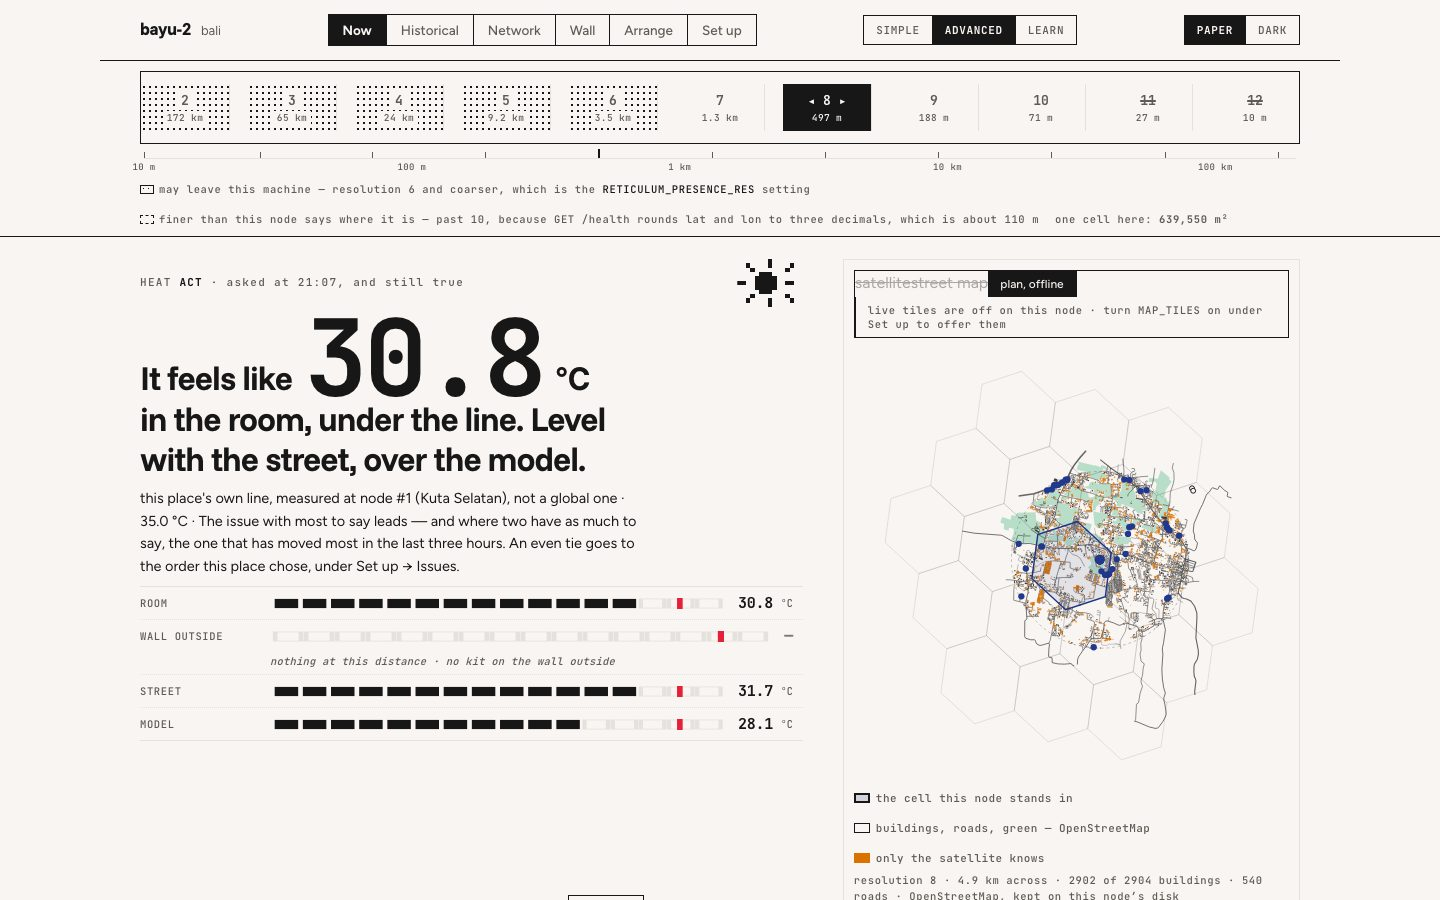
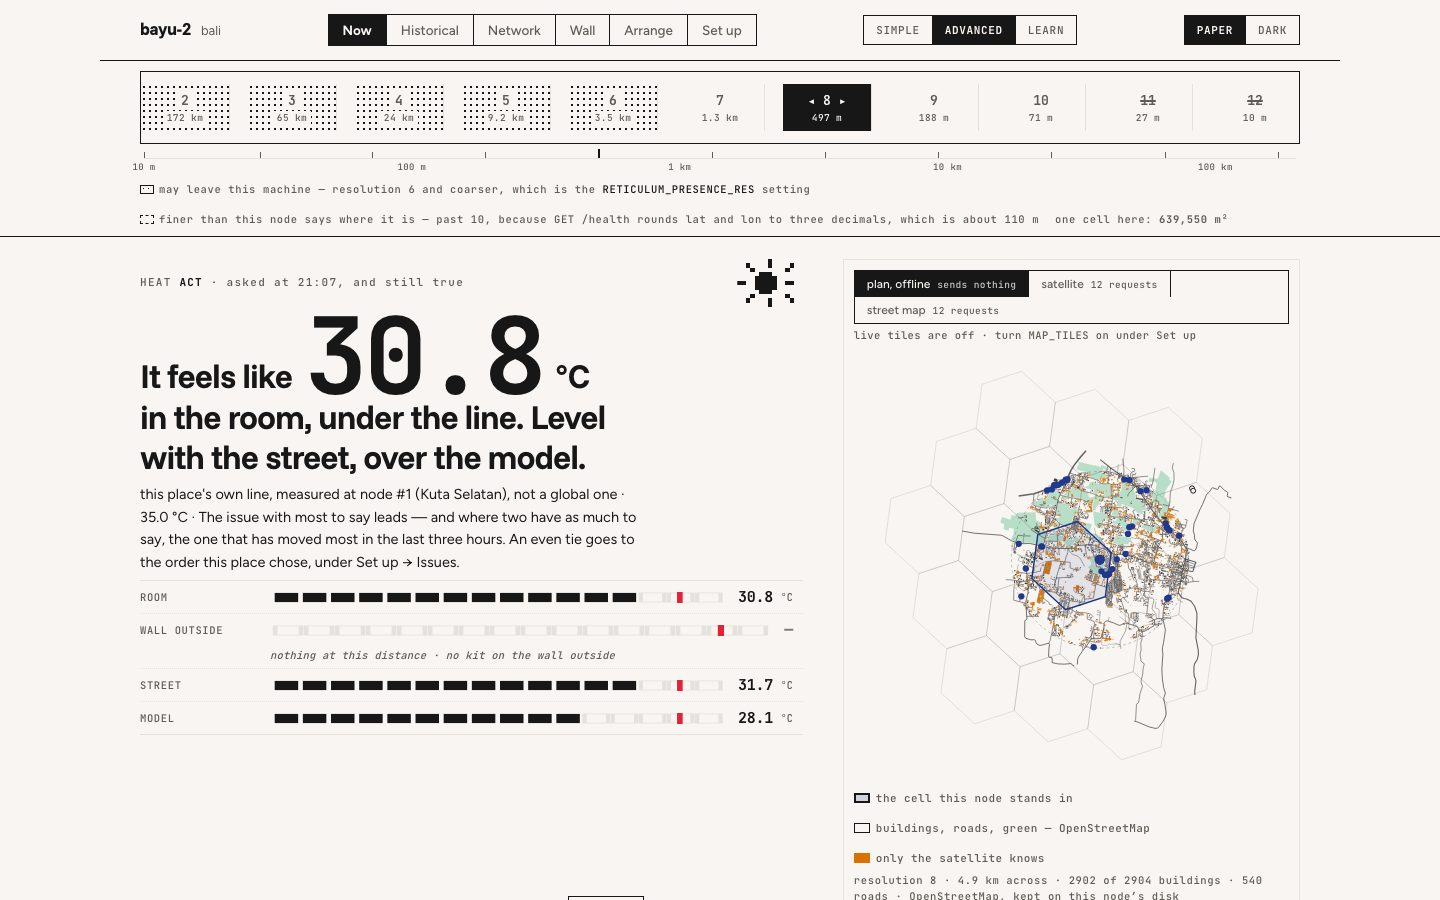
dashboard: the ground panel says what each base costs before you press it
Prompt 2, commit 4 of 4 — and prompt 2 is done.

THE OFFLINE PLAN LEADS. It was third of three, after the two that leave the house, so the first
thing offered had a cost and the one that costs nothing was the afterthought. It is the default from
resolution 9 in and the only base that sends no request anywhere.

THE PRICE IS IN THE TAB. The request count was at the foot of the panel and only ever described the
base already showing — so the one number a reader needs in order to choose was the one they could
only see after choosing. Each tile is this household's kilometre named to a tile server, so it is a
price and it belongs on the thing being bought: satellite 12 requests, street map 12 requests, plan
sends nothing.

AND THE OVERLAP IS GONE. A disabled base is drawn rather than hidden — hiding them made a keeper who
had seen satellite and street in the prototype think production had lost them — but it was styled
for colour only, with no padding and no border, so the two of them ran together as "satellitestreet
map" inside the strip's own box. Visible in every shot taken of this page today. They are cells of
the strip now; only their state differs.

WHAT THE HEIGHT TAUGHT ME, and prompt 3 will need it: the lead's height IS the map column's height.
The ground panel sits in area `g`, which spans all six rows of the lead, so grid distributes its
height across them and the left column's own spacing is not the lever. When the as-of went under the
[…]

diff --git a/app/static/dashboard.js b/app/static/dashboard.js
@@ -1430,14 +1430,18 @@ const SIZE = 600;                   // logical px of the lead's square; the wall
 const FILL = 0.9;                   // the cells may take this much of the square
 const EQUATOR_M = 40075016.686;     // Web Mercator's circumference, metres
 
+/* THE OFFLINE PLAN LEADS. It was third of three, after the two that leave the house — so the first
+ * thing offered was the one with a cost, and the one that costs nothing was the afterthought. The
+ * node's own map is the default from resolution 9 in and it is the only base that sends no request
+ * anywhere; it goes first, and the other two say what they would cost before they are pressed. */
 const BASES = {
+  plan: { name: 'plan, offline', host: null, credit: 'OpenStreetMap, kept on this node\u2019s disk' },
   sat: { name: 'satellite', host: 'tiles.maps.eox.at', maxZ: 18,
     url: (z, x, y) => `https://tiles.maps.eox.at/wmts/1.0.0/s2cloudless-2020_3857/default/g/${z}/${y}/${x}.jpg`,
     credit: 'Sentinel-2 cloudless by EOX IT Services GmbH (Contains modified Copernicus Sentinel data 2020)' },
   osm: { name: 'street map', host: 'tile.openstreetmap.org', maxZ: 19,
     url: (z, x, y) => `https://tile.openstreetmap.org/${z}/${x}/${y}.png`,
     credit: '© OpenStreetMap contributors' },
-  plan: { name: 'plan, offline', host: null, credit: 'OpenStreetMap, kept on this node’s disk' },
 };
 /* Which base when nobody has pressed one. Tomas's rule: from resolution 9 inward, the plan. The
  * node's own map is about 3 km across; the res-9 plate is 1.6 km, so from 9 the plan fills the
@@ -1628,17 +1632,40 @@ function lead(ctx) {
   const why = tilesOn
     ? `the plan fills the frame from resolution ${PLAN_FROM} in — turn the dial out to offer this`
     : 'live tiles are off on this node — turn MAP_TILES on under Set up';
+  /* WHAT EACH BASE COSTS, in the tab, before it is pressed. The request count was at the foot of
+     the panel and only ever described the base already showing — so the one number a reader needs
+     in order to choose was the one they could only see after choosing. Each tile is this household's
+     kilometre named to a tile server, so it is a price and it belongs on the thing being bought.
+     The plan's is zero, and says so rather than being left blank. */
+  const cost = (k) => {
+    if (k === 'plan') return 'sends nothing';
+    try {
+      const n = frame(res, SIZE, k).tiles.length;
+      return `${n} request${n === 1 ? '' : 's'}`;
+    } catch (e) { return ''; }
+  };
   const strip = `<div class="ctlstrip" role="group" aria-label="the ground under the cells">`
-    + Object.entries(BASES).map(([k, b]) => (k === 'plan' || allowed)
-      ? `<a class="${k === base ? 'on' : ''}" href="${ctx.qlink({ base: k === autoBase(res, window.SETTINGS) ? null : k })}">`
-        + `${esc(b.name)}</a>`
-      : `<span class="off" aria-disabled="true" title="${esc(why)}">${esc(b.name)}</span>`).join('')
-    + `<span class="auto">${allowed
+    + Object.entries(BASES).map(([k, b]) => {
+      const price = cost(k);
+      const inner = `${esc(b.name)}${price ? `<small>${esc(price)}</small>` : ''}`;
+      return (k === 'plan' || allowed)
+        ? `<a class="${k === base ? 'on' : ''}" href="${ctx.qlink({ base: k === autoBase(res, window.SETTINGS) ? null : k })}">${inner}</a>`
+        : `<span class="off" aria-disabled="true" title="${esc(why)}">${inner}</span>`;
+    }).join('')
+    + `</div>`
+    /* The rule the strip follows is a SENTENCE ABOUT the strip, not a fourth thing to press. Inside
+       the bordered box it wrapped to three lines, made the strip 82px, and the ground panel is in
+       the lead's right-hand column — which spans all six rows, so a taller panel pushes the left
+       column apart and the as-of off the first screen. It sits under the box now. */
+    + `<p class="ctlrule">${allowed
       ? `plan from resolution ${PLAN_FROM} · tiles coarser`
       : (window.SETTINGS || {}).MAP_TILES === 'on'
-        ? `the plan fills the frame from resolution ${PLAN_FROM} in, and sends nothing`
-        : 'live tiles are off on this node · turn MAP_TILES on under Set up to offer them'
-      }</span></div>`;
+        ? `the plan fills the frame from resolution ${PLAN_FROM} in`
+        /* One line, in this column, at this size. Two lines here cost 17px, and the map column
+           spans all six rows of the lead — so the panel's height IS the lead's height, and the
+           as-of line sits five pixels above the fold. The disabled tabs carry the same reason. */
+        : 'live tiles are off · turn MAP_TILES on under Set up'
+      }</p>`;
 
   let key, cap;
   if (base === 'plan') {

diff --git a/app/static/dashboard.css b/app/static/dashboard.css
@@ -465,7 +465,9 @@ nav span.on, nav button.on { background: var(--ink); color: var(--ground); font-
 .lead .whenline { display: flex; gap: 12px; align-items: center; flex-wrap: wrap }
 @media (min-width: 900px) {
   .lead { grid-template-columns: minmax(0, 1.45fr) minmax(0, 1fr);
-    grid-template-areas: "k g" "s g" "w g" "m g" "n g" "t g"; gap: 9px clamp(20px, 3vw, 40px);
+    /* 7px and not 9: six rows of it is 45px of the first screen, and the as-of line was sitting
+       five pixels above the fold before the ground panel gained one sentence. */
+    grid-template-areas: "k g" "s g" "w g" "m g" "n g" "t g"; gap: 7px clamp(20px, 3vw, 40px);
     align-items: start }
   .lead > .leadhead { grid-area: k } .lead > .big { grid-area: s }
   /* `.why` matched the why line AND the headline rule, which both landed in `w` and printed on top
@@ -521,7 +523,28 @@ details.notefold[open] > summary .n::after { content: ' · open' }
 /* A base this node will not send for, drawn rather than hidden: a reader can see that satellite and
    street exist and that one setting stands between them and the map. Not a link, not pressable, and
    struck through so it cannot be mistaken for one. */
-.ctlstrip .off { color: var(--mute); opacity: .5; text-decoration: line-through; cursor: not-allowed }
+/* A disabled base is drawn, not hidden — hiding them made a keeper who had seen satellite and street
+   in the prototype think production had lost them. But it was styled for colour only: no padding, no
+   border, so the two of them ran together as "satellitestreet map" inside the strip's own box. It is
+   a cell of the strip like the others; only its state differs. */
+.ctlstrip .off { padding: 6px 12px; font: 500 12px var(--fc-font-body); white-space: nowrap;
+  border-right: 1px solid var(--ink); color: var(--mute); cursor: not-allowed }
+.ctlstrip .off:last-child { border-right: 0 }
+/* The price sits beside the name on ONE line, not under it. Stacked, it made each tab two lines and
+   the ground panel taller — and the map column spans all six rows of the lead, so a taller panel
+   pushes the left column's rows apart and the as-of off the first screen. T1's fifth leg, spent on
+   a line break. */
+.ctlstrip a, .ctlstrip .off { text-decoration: none; white-space: nowrap }
+/* After the rule above, not before it: `text-decoration: none` there was winning on source order and
+   a base you cannot press looked exactly like one you can. The strike is the whole of the state. */
+.ctlstrip .off { text-decoration: line-through; text-decoration-thickness: 1px }
+.ctlstrip .off small { text-decoration: none }
+.ctlstrip a small, .ctlstrip .off small { margin-left: 7px; font: 500 9.5px var(--mono);
+  letter-spacing: .04em; color: var(--mute); text-decoration: none }
+.ctlstrip a.on small { color: var(--ground); opacity: .8 }
+/* The rule the strip follows, under it: a sentence about the strip, not a base you can press. */
+.ctlrule { margin: -6px 0 6px; font: 500 10.5px var(--mono); letter-spacing: .04em; line-height: 1.35;
+  color: var(--mute); max-width: 60ch }
 .ctlstrip { display: flex; flex-wrap: wrap; gap: 0; border: 1px solid var(--ink); width: max-content;
   max-width: 100%; margin-bottom: 10px }
 .ctlstrip a { padding: 6px 12px; font: 500 12px var(--fc-font-body); color: var(--mute);
